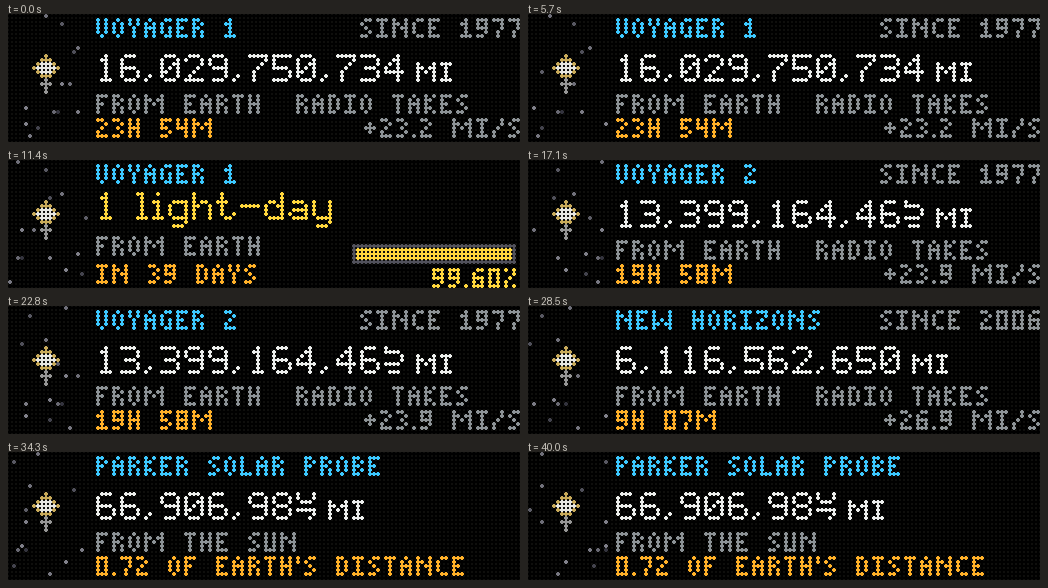
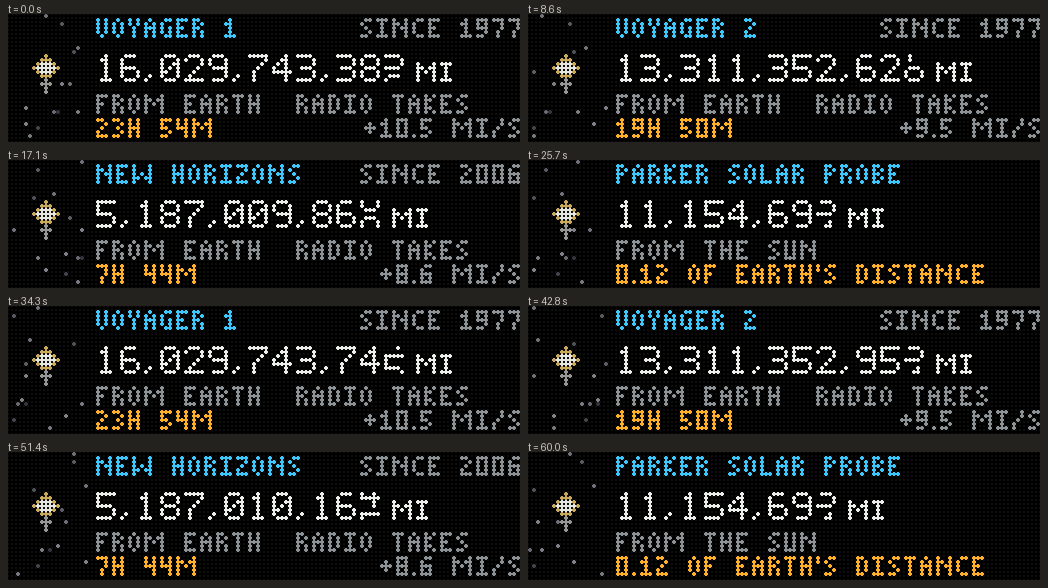
deep_space 1.0.1: the odometer's last wheel turns steadily through each unit instead of strobing at speed

diff --git a/plugins/deep_space/plugin.py b/plugins/deep_space/plugin.py
@@ -127,17 +127,17 @@ def light_time(km):
     return f"{minutes}M {int(seconds % 60):02d}S"
 
 
-@lru_cache(maxsize=20)
-def rolling(digit, color):
-    """A digit with the next one under it, for the last wheel of the odometer to roll through."""
+@lru_cache(maxsize=10)
+def rolling(digit):
+    """A digit with the next one under it, as a mask, for the last wheel of the odometer to roll through."""
     strip = Image.new("RGB", (5, 15))
-    draw_text(strip, digit, 0, 0, color)
-    draw_text(strip, str((int(digit) + 1) % 10), 0, 8, color)
-    return strip
+    draw_text(strip, digit, 0, 0, WHITE)
+    draw_text(strip, str((int(digit) + 1) % 10), 0, 8, WHITE)
+    return strip.convert("L").point(lambda v: 255 if v else 0)
 
 
 def odometer(frame, value, x, y, color, t, unit):
-    """Digits that roll: the last few spin as the distance grows, like a car's mileage."""
+    """Digits that roll: the last wheel turns through every unit, like a car's mileage."""
     text = f"{int(value):,}"
     fraction = value - int(value)
     cx = x
@@ -145,9 +145,11 @@ def odometer(frame, value, x, y, color, t, unit):
     for ch in text:
         if ch.isdigit():
             digits_left -= 1
-            if digits_left == 0 and fraction > .5:
-                frame.paste(rolling(ch, color).crop((0, round((fraction - .5) * 2 * 8), 5,
-                                                     round((fraction - .5) * 2 * 8) + 7)), (cx, y))
+            if digits_left == 0:
+                # Always rolling by the fraction, not only in its second half: at this speed the
+                # wheel turns about ten times a second, and a half roll that snaps back strobes.
+                step = round(fraction * 8)
+                frame.paste(color, (cx, y, cx + 5, y + 7), rolling(ch).crop((0, step, 5, step + 7)))
             else:
                 draw_text(frame, ch, cx, y, color)
             cx += 6

diff --git a/plugins/deep_space/tests/test_deep_space.py b/plugins/deep_space/tests/test_deep_space.py
@@ -50,5 +50,25 @@ class ScreenTests(unittest.TestCase):
         self.assertFalse(module.available(context(0, {})))
 
 
+class OdometerTests(unittest.TestCase):
+    def pixels(self, value):
+        from PIL import Image
+        frame = Image.new("RGB", (40, 12))
+        deep.odometer(frame, value, 0, 1, (236, 238, 236), 0, "MI")
+        return frame.crop((0, 0, 18, 12)).tobytes()  # the digits only, not the unit
+
+    def test_whole_unit_matches_plain_digits(self):
+        from PIL import Image
+        from rackticker import draw_text
+        plain = Image.new("RGB", (40, 12))
+        draw_text(plain, "216", 0, 1, (236, 238, 236))
+        self.assertEqual(self.pixels(216.0), plain.crop((0, 0, 18, 12)).tobytes())
+
+    def test_wheel_turns_steadily_through_the_unit(self):
+        # Nine looks in all: the wheel at rest, then each of its eight rows of travel.
+        frames = [self.pixels(216 + k / 40) for k in range(40)]
+        self.assertEqual(len(set(frames)), 9)
+
+
 if __name__ == "__main__":
     unittest.main()
